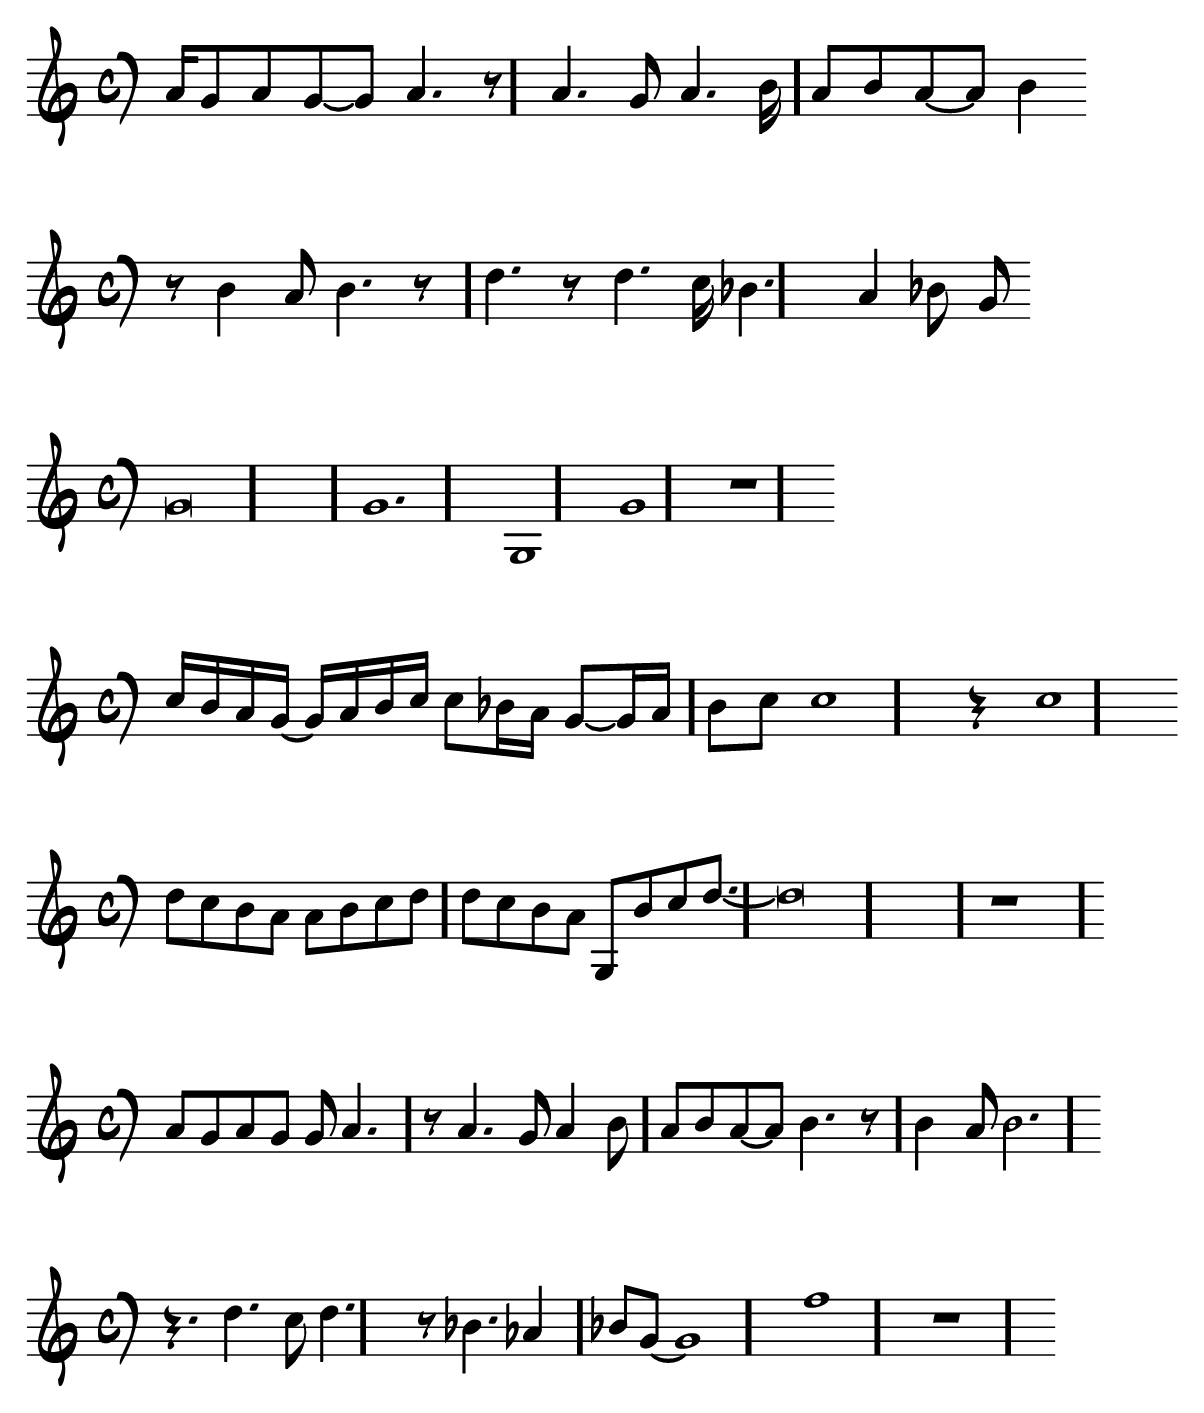
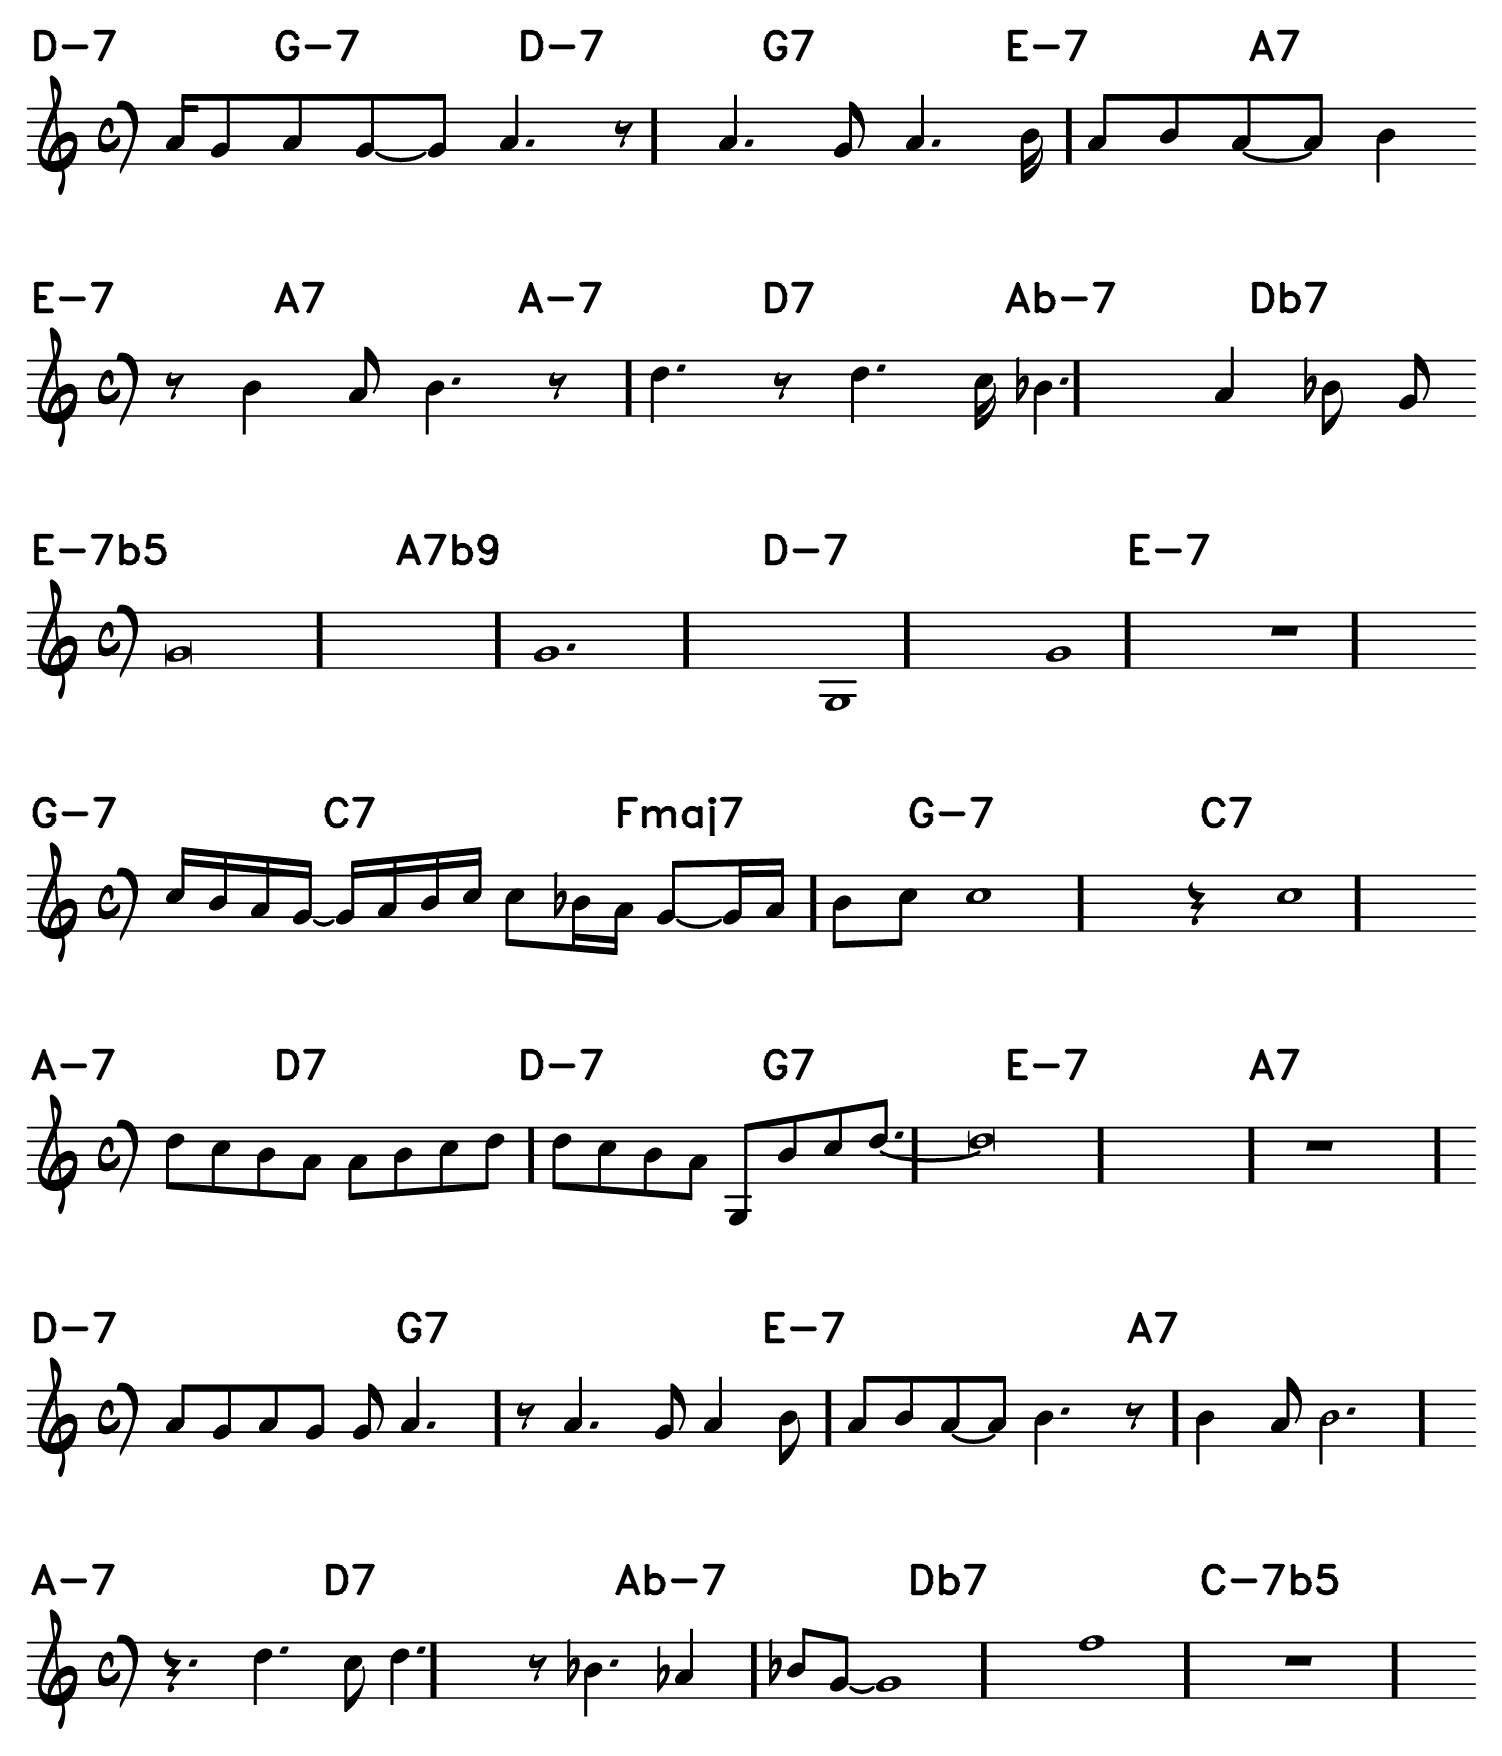
ara si

diff --git a/scripts/_gen_satin_figures.py b/scripts/_gen_satin_figures.py
@@ -36,6 +36,33 @@ OUT = REPO / "latex_documents/main/figures/real_page"
 OUT.mkdir(parents=True, exist_ok=True)
 SHOW = {"A": 1, "B": 4}  # representative recognised segments
 
+# Figure-only LilyPond template: full-width, justified systems so every staff
+# in the stacked figure renders to the SAME width and the lines align like a
+# real lead sheet. This is a local override passed via render_tokens(template=);
+# it deliberately does NOT modify the shared LY_TEMPLATE used for training data
+# (those renders must stay natural-width incipits to match the trained model).
+FIG_LY_TEMPLATE = r"""
+\version "2.26.0"
+{staff_size_directive}
+\include "lilyjazz.ily"
+\header {{ tagline = ##f }}
+\paper {{
+  indent = 0
+  ragged-right = ##f
+  top-margin = 6\mm
+  bottom-margin = 6\mm
+  left-margin = 8\mm
+  right-margin = 8\mm
+  paper-width = 200\mm
+  line-width = 184\mm
+  paper-height = 55\mm
+}}
+\score {{
+  \new Staff {{ {music} }}
+  \layout {{ \context {{ \Score \omit BarNumber }} }}
+}}
+""".strip()
+
 
 def _decode_page(data_url: str) -> np.ndarray:
     b64 = data_url.split(",", 1)[1]
@@ -54,6 +81,26 @@ def _stack(images: list[np.ndarray], gap: int = 30, pad: int = 20) -> np.ndarray
         rows.append(canvas)
         rows.append(sep)
     return np.vstack(rows[:-1])
+
+
+def _with_chords(render: np.ndarray, chords: list[str], *, pad: int = 10) -> np.ndarray:
+    """Prepend a band above *render* showing the recognised chords in reading
+    order, evenly spaced across the staff width (not beat-aligned: the chord
+    stream carries no per-chord beat offset)."""
+    if not chords:
+        return render
+    h, w = render.shape
+    font = cv2.FONT_HERSHEY_DUPLEX
+    scale = max(0.8, w / 1100.0)
+    thick = max(1, round(scale * 1.5))
+    (_, th), _ = cv2.getTextSize("Cmaj7", font, scale, thick)
+    band = np.full((th + 2 * pad, w), 255, np.uint8)
+    slot = w / len(chords)
+    for i, ch in enumerate(chords):
+        (tw, _), _ = cv2.getTextSize(ch, font, scale, thick)
+        x = min(int(i * slot) + pad, max(pad, w - tw - pad))
+        cv2.putText(band, ch, (x, pad + th), font, scale, 0, thick, cv2.LINE_AA)
+    return np.vstack([band, render])
 
 
 def main():
@@ -91,9 +138,10 @@ def main():
     for i, s in enumerate(segs):
         if s.get("rejected") or not s.get("lmx_tokens"):
             continue
-        r = render_tokens(s["lmx_tokens"], name=f"satin_stack_{i}")
+        r = render_tokens(s["lmx_tokens"], name=f"satin_stack_{i}",
+                          template=FIG_LY_TEMPLATE)
         if r is not None:
-            renders.append(r)
+            renders.append(_with_chords(r, s.get("chords", [])))
     if renders:
         stacked = _stack(renders)
         cv2.imwrite(str(OUT / "satin_ours_stacked.png"), stacked)

diff --git a/latex_documents/main/chapters/06_results.tex b/latex_documents/main/chapters/06_results.tex
@@ -20,7 +20,8 @@ worst-case predictions are collected in \Cref{app:qual}.
 state of the art.
 \Cref{sec:res-domaingap} addresses the synthetic-to-real domain gap
 and is, in the current draft, the chapter's main open experimental
-front.
+front.\
+
 
 % ─────────────────────────────────────────────────────────────────────────────
 \section{Experimental Protocol}
@@ -700,7 +701,7 @@ make: virtual header injection for clef-less staves
         \centering
         \includegraphics[width=\textwidth]{figures/real_page/satin_ours_stacked}
         \caption{This system: the seven recognised staves, LMX
-        re-rendered.}
+        re-rendered, with the recognised chords above each staff.}
         \label{fig:audiveris-vs-ours-ours}
     \end{subfigure}
     \caption{Audiveris versus this system on the same genuine
@@ -709,7 +710,8 @@ make: virtual header injection for clef-less staves
     nine staves, so most lines default to bass clef with displaced
     octaves, and it recovers no chord symbols.
     \textbf{Right:} this system renders all seven recognised staves on
-    the correct treble clef and recovers the chord progression.
+    the correct treble clef, with the recognised chord symbols listed
+    above each staff in reading order.
     Neither output is checked against a ground truth; the contrast is
     qualitative.}
     \label{fig:audiveris-vs-ours}